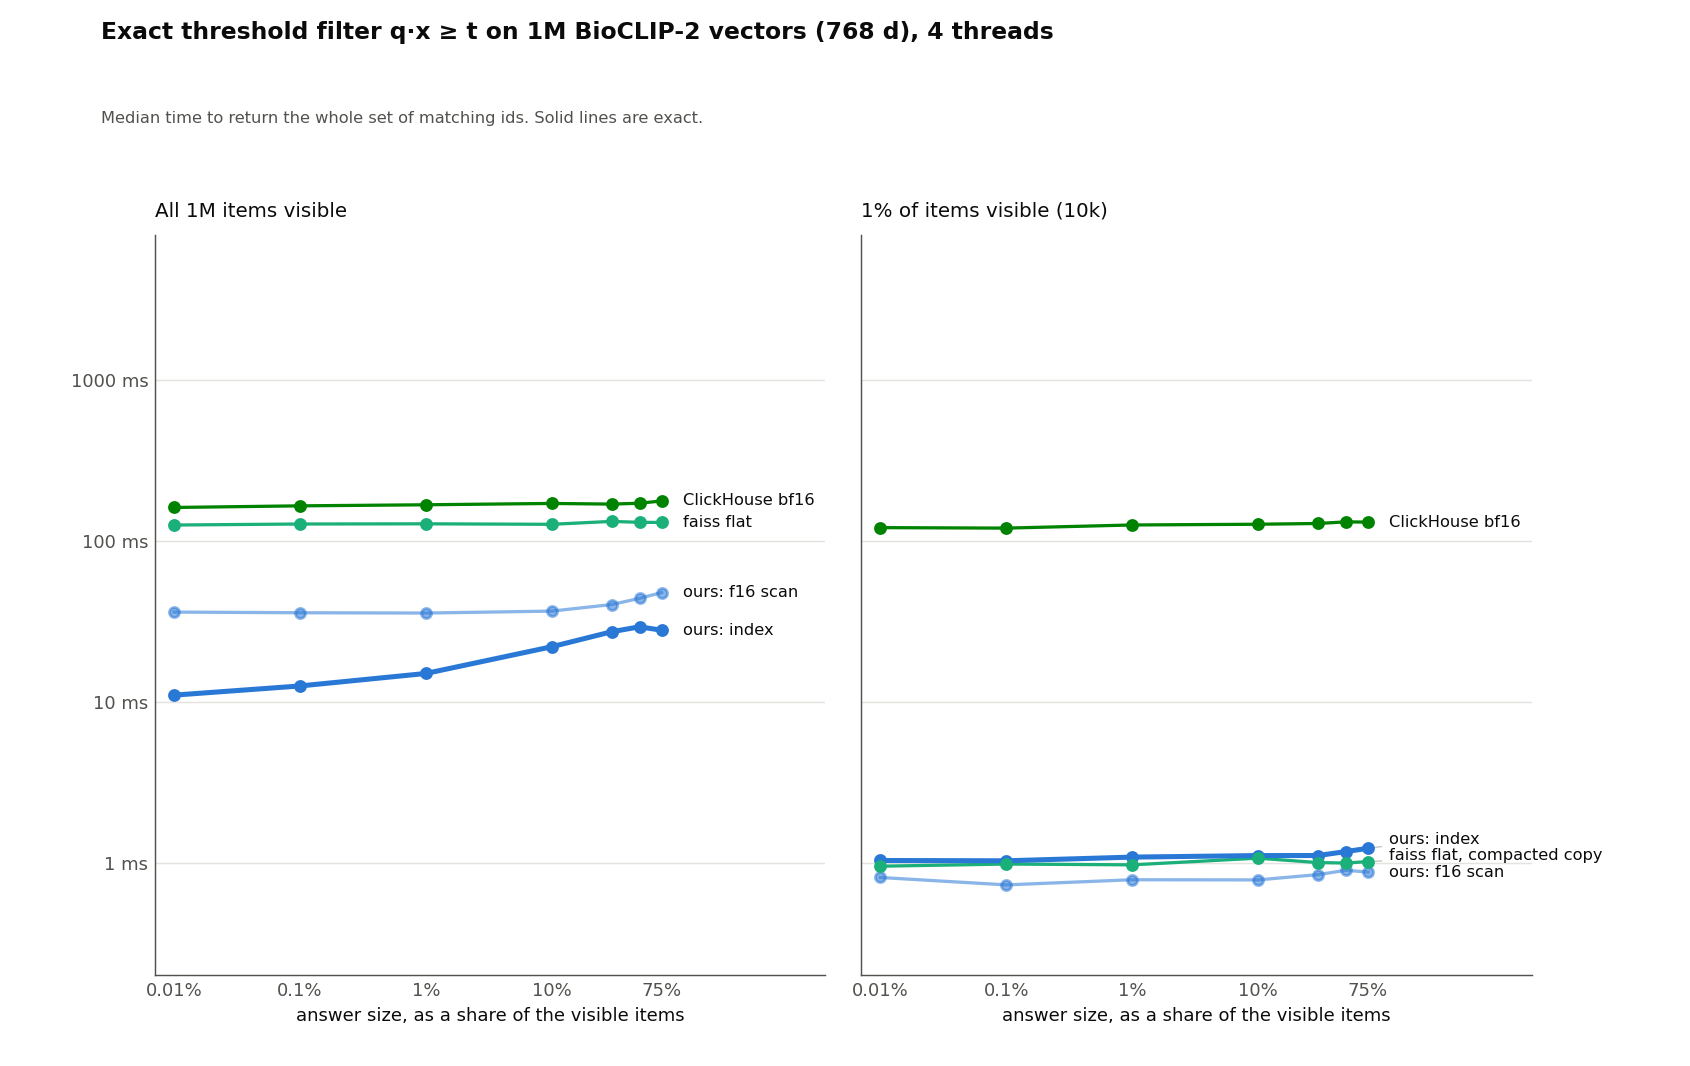
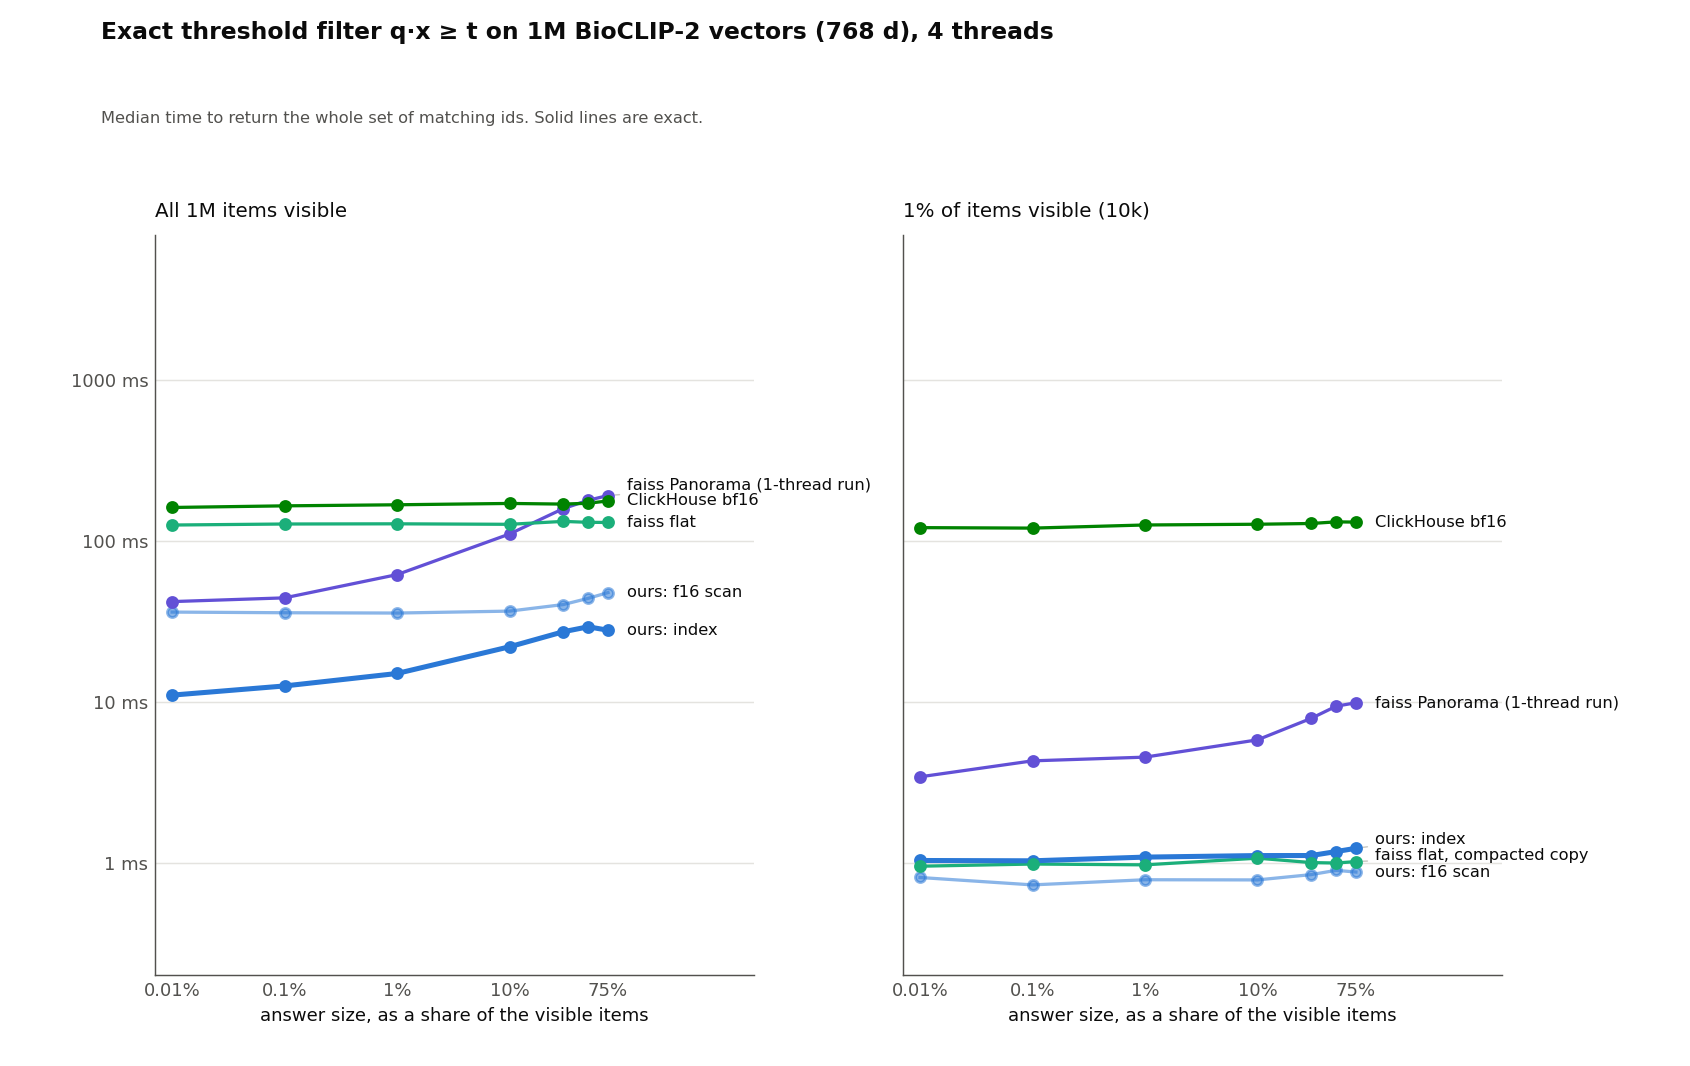
Threshold-db 4-thread plot: faiss Panorama from its 1-thread run, labelled; a 4-thread run is owed

diff --git a/bench/threshold-db/plot.py b/bench/threshold-db/plot.py
@@ -108,6 +108,10 @@ def draw(th, path):
         ends = []
         for key, name, colour, exact, panels in SERIES:
             pts = sorted(lines.get((key, 1 if exact else 0, th, vis), []))
+            if not pts and key == "faiss Panorama flat range":
+                # faiss runs one range-search query on one thread, so its 1-thread figures stand in, labelled as such
+                pts = sorted(lines.get((key, 1, 1, vis), []))
+                name = f"{name} (1-thread run)" if pts else name
             if vis not in panels or not pts:
                 continue
             xs = [share(x, vis) for x, _, _ in pts]
